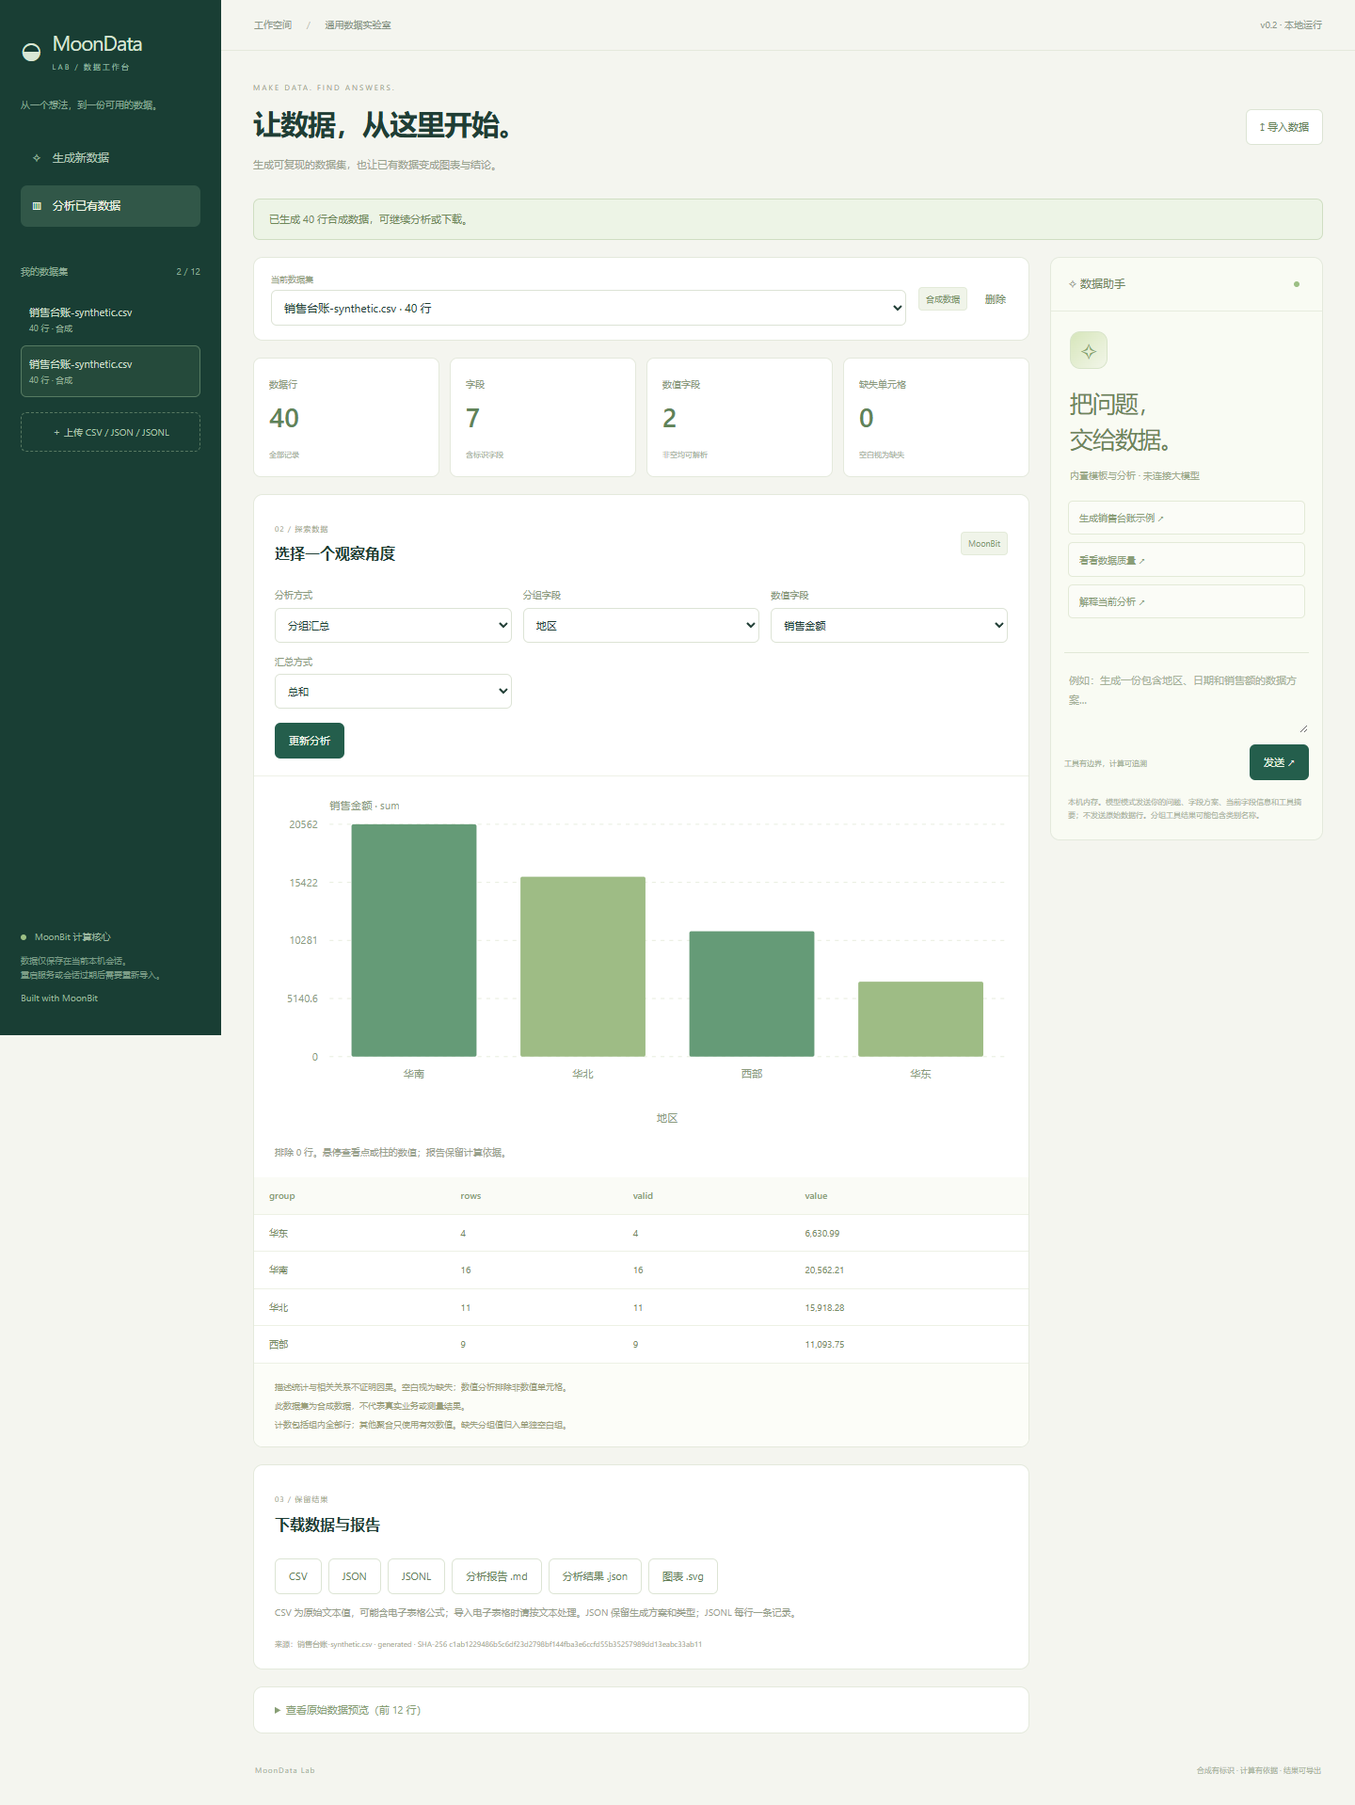
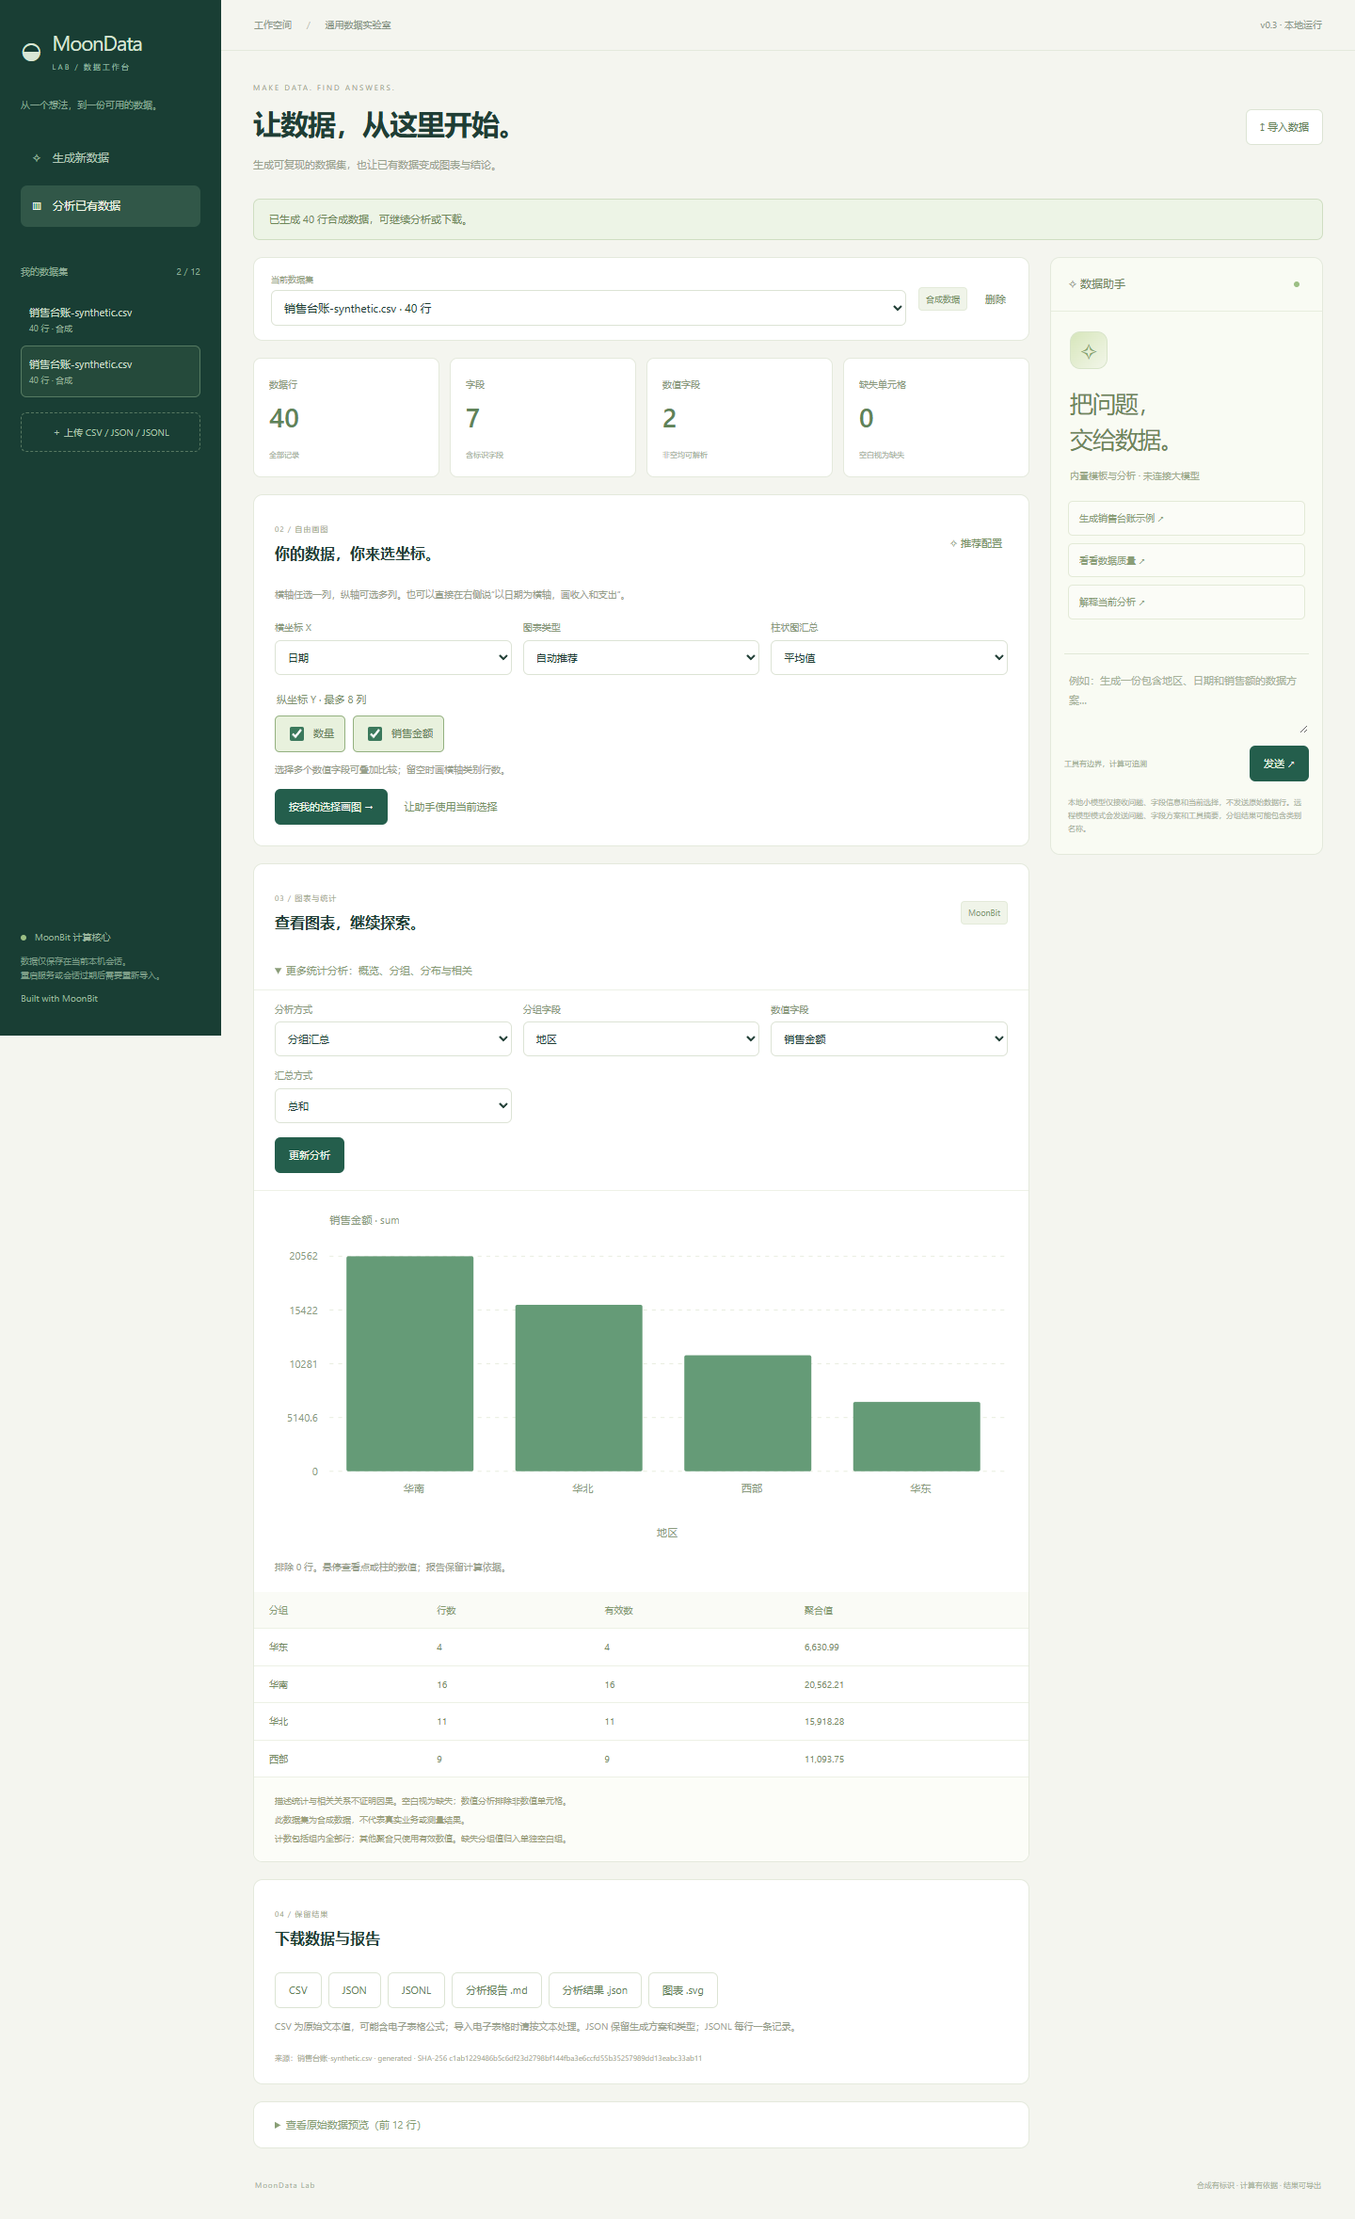
docs: record real local inference acceptance and v0.3 usage

diff --git a/docs/LOCAL_MODEL.md b/docs/LOCAL_MODEL.md
@@ -1,0 +1,56 @@
+# 本地小模型与自由画图
+
+## 使用
+
+在当前工作区执行 `./moondata-lab/start.ps1`。如果已经准备好本地模型，该入口同时启动模型与工作台。访问 http://127.0.0.1:4321 。停止启动终端会清理本次创建的模型进程。
+
+其他电脑从源码开始：Windows x64、Node与MoonBit准备好后，在项目目录运行：
+
+```powershell
+node scripts/setup-local-model.mjs
+node scripts/start-with-model.mjs
+```
+
+权重与运行器只写入忽略的 .local/model，不安装全局程序、不写注册表、不向 Git 提交模型。权重约639MB、运行器压缩包约20MB；启动使用6个CPU线程和8192上下文，无需CUDA依赖。与应用一起运行时会占用额外内存，启动和推理速度取决于机器。
+
+默认应用端口4321，模型4324。可以通过 PORT、LAB_LOCAL_MODEL_PORT改变；只监听127.0.0.1。端口已占用会报错，不终止其他程序。应用只清理自己创建的模型子进程。
+
+只运行 `node server/index.mjs` 仍是无模型模式，除非显式设置模型环境。远程模型仍可按 README 使用；本地启动入口优先加载本地模型。
+
+## 操作顺序
+
+1. 选“其他 / 自定义”生成数据，或上传支持的表格文件。模板不是领域限制。
+2. 在自由画图区选择X、勾选一个或多个Y、选择自动/折线/散点/柱状。点“按我的选择画图”。
+3. 要用对话，可点“让助手使用当前选择”，再说“把我当前选择的几列换成折线图”。也可直接指定“以收入为横轴，支出为纵轴画散点图”。
+4. 模型输出受约束的配置；字段和类型校验后才调用计算工具。画出后配置回填表单，可继续点击修改。
+5. 下载SVG、Markdown或JSON，核对原始来源、排除行数、聚合方式和计算值。
+
+“一键推荐”是按字段类型的确定性操作；本地模型负责自由描述的图表规划。明确的模板、概览和当前分析命令直接走工具，会说明无需模型规划。
+
+## 模型与来源
+
+使用 [Qwen 官方 Qwen3-0.6B-GGUF](https://huggingface.co/Qwen/Qwen3-0.6B-GGUF) 的 Q8_0 权重（Apache-2.0），不是本项目训练的模型。官网下载在本机网络不可达，实际下载自 [Qwen 官方 ModelScope 仓库](https://modelscope.cn/models/Qwen/Qwen3-0.6B-GGUF)，同时核对公开的同文件LFS SHA-256。
+
+- 权重：Qwen3-0.6B-Q8_0.gguf，639446688字节。
+- SHA-256：9465e63a22add5354d9bb4b99e90117043c7124007664907259bd16d043bb031。
+- ModelScope revision：6abe20cd0aed577f4d0b267935868ecae190aee9。
+- 运行器：[llama.cpp b11718 Windows CPU x64](https://github.com/ggml-org/llama.cpp/releases/tag/b11718)，其源码遵循MIT许可。
+- ZIP SHA-256：92cc529b29a43f9a30e21d490cb2e95062acd0b59af6fee8b3b52b28074f838c。
+
+setup脚本固定版本、核对长度和摘要后才激活文件。再次执行会复用已校验的下载。源码交付包不包含第三方权重和二进制；本机下载是独立依赖缓存。
+
+## 能力与边界
+
+小模型只输出受JSON Schema约束的绘图配置：action、X、Y列表、图类型、聚合方式与方案说明。不执行代码，不计算报告数值，不把模型意见当作因果结论。底层生成、聚合、统计和相关计算仍由MoonBit承担。
+
+传给本地模型的是问题、字段名称/类型和当前选择，没有原始数据行或绘图采样点。它不访问远程推理服务；初次下载运行文件需要网络。
+
+一次最多考虑16个候选字段，优先提问中出现的字段与当前选择；宽表可先在界面选中目标字段再提问。界面仍能选择所有列。长字段名、模糊表达和复杂意图可能导致错误或达到上下文限制，明确的手动选择始终可用。
+
+只换图表类型时程序保留用户已有坐标与汇总配置；明确指定不存在的横轴会先拒绝，不悄悄用另一列替代。不能据此保证任何自然语言都被正确理解；请核对回填坐标与报告。
+
+当前模型专注已读入数据的图表规划；生成新数据仍用模板/自定义方案，或可选远程模型的方案工具。不提供任意文件读取、PDF/图像识别、训练、预测、筛选表达式或自动数据清洗。
+
+## 实测
+
+`node scripts/test-local-model.mjs` 执行真实CPU模型推理和真实浏览器对话，不用模拟模型回复。覆盖明确坐标、多纵轴、风格变更、类别求和、数值散点、纯文本计数、缺失字段拦截，以及图表/报告一致。记录在 artifacts/local-model-acceptance.json。此小组合成验收不能代表开放领域语言理解准确率。

diff --git a/docs/ACCEPTANCE.md b/docs/ACCEPTANCE.md
@@ -1,4 +1,4 @@
-# v0.2 通用版验收
+# v0.3 通用版验收
 
 日期：2026-10-18，Windows x64 / Node 24.19.0 / MoonBit 0.10.15 / Playwright 1.62.1 / Microsoft Edge。此记录对应通用数据生成与分析；旧电机记录见 archive/MOTOR_V0_ACCEPTANCE.md。
 
@@ -6,11 +6,12 @@
 | --- | --- | --- |
 | 生成与分析两条流程 | 已实现 | web 默认入口、server/data、generator、explore |
 | 数学与核心 | JS 15/15、WasmGC 15/15 | scripts/check.mjs；独立预期值 |
-| Node 数值/服务/工具 | 56/56 | test/*.test.mjs（含历史回归） |
-| 浏览器端到端 | 18 场景通过 | artifacts/browser-acceptance.json |
-| 通用示例 | 4 领域 | examples/*-synthetic.csv/json，含方案与标识 |
+| Node 数值/服务/工具 | 64/64 | test/*.test.mjs（含历史回归） |
+| 浏览器端到端 | 21 场景通过 | artifacts/browser-acceptance.json |
+| 通用示例 | 4 领域 + 其他/自定义 | examples/*-synthetic.csv/json，含方案与标识 |
 | 模型工具协议 | 模拟服务通过 | 方案提出→用户生成→模型调用相关工具；取消中止上游 |
-| 外部模型效果 | 未实测 | 当前没有调用真实模型服务，不据此承诺提供商兼容性 |
+| 远程模型提供商 | 未实测 | 当前没有调用真实远程模型，不据此承诺提供商兼容性 |
+| 本地小模型实际推理 | 8项流程检查通过 | artifacts/local-model-acceptance.json；真实Qwen CPU推理与浏览器，含字段校验检查 |
 | 截图 | 新生成/分析/390px | artifacts/moondata-generation/analysis/mobile.png |
 | 本地 Git | 分阶段提交 | codex/initial-workbench |
 | GitHub 推送 | 待登录，未完成 | gh 未登录；连接器目标查询不可访问；发布脚本已准备 |
@@ -33,7 +34,11 @@
 
 桌面视口1440×1100、移动390×844。没有以本机检查代替 Linux/macOS 或 Firefox/Safari 验证。CI 使用 Chromium，远端结果需推送后确认。
 
-## 本机性能检查
+v0.3新增显式自定义入口、X与多Y选择、实际数值/日期间隔、多曲线、点击切换图型与报告失效、一键字段推荐。真实本地模型单独执行：中文双纵轴折线、保留选择换图型、类别金额求和、散点、纯文本计数、缺失字段校验及两条实际浏览器对话路径。
+
+模型测试使用固定小组合成数据；没有据此报告开放域准确率。图表规划可失败或误解，用户应核对回填的字段与聚合方式。明确字段不存在时不绘制替代列。
+
+## v0.2 历史本机性能检查
 
 `node scripts/benchmark.mjs` 对10万行合成类别/数值表导入与相关分析，确认10万对参与统计、图只显示1500点；再生成1万行四字段实验模板。一次耗时记录在忽略的 artifacts/benchmark.json。不是峰值内存、多用户负载或跨平台性能保证。
 
@@ -43,4 +48,4 @@
 
 GitHub 身份登录后执行 `node scripts/publish-github.mjs`。默认私有 FidollarinLA/moondata-lab，推送 codex 分支并比对 SHA。成功后核对远端 CI，再更新此记录。没有收到登录条件前，不把本地提交报告为已上传。
 
-真实模型服务验证与用户真实数据反馈属于后续验收；当前合成示例不能证明行业业务有效性或隐私合成能力。
+远程模型服务验证与用户真实数据反馈属于后续验收；本地Qwen已单独实测。当前合成示例不能证明行业业务有效性或隐私合成能力。

diff --git a/README.md b/README.md
@@ -4,6 +4,18 @@
 
 本机运行的中文通用数据工作台。销售台账、库存、问卷、运营、传感器和实验记录都可以使用，不要求电机参数、时间列或行业专属格式。
 
+## v0.3：自定义与对话画图
+
+- 新增“其他 / 自定义”，模板只是起点，字段可以自由添加和修改。
+- 上传数据后自动识别字段；在“自由画图”选择任意横轴和最多8个数值纵轴，一次画多条曲线、散点或分组柱状图。
+- 自动推荐依据字段类型执行；本地小模型依据问题和当前选择生成绘图配置，两者在界面和记录中区分。
+- 已在本机实际运行 Qwen3-0.6B-Q8_0；中文对话可指定坐标、聚合，或说“把我当前选择的几列换成折线图”。计算仍由 MoonBit 完成，模型不生成可执行代码。
+- 新绘图区支持实际数值 / UTC 日期横轴间隔；类别保留行顺序。更多统计分析可展开查看。
+
+当前工作目录已经准备好本地权重。在工作区运行 `./moondata-lab/start.ps1`，会自动加载模型与应用。首次从源码包使用需先执行 `node scripts/setup-local-model.mjs`（Windows x64，下载约639MB权重和20MB便携运行器并核对SHA-256）。然后运行 `node scripts/start-with-model.mjs`。
+
+完整说明、模型来源与限制见 [本地小模型](docs/LOCAL_MODEL.md)。这是接入预训练模型的图表规划器，没有重新训练模型；它可能理解错误，坐标选择和报告是核对依据。支持的表格格式仍为 CSV / JSON / JSONL。
+
 ![数据生成界面](artifacts/moondata-generation.png)
 
 ## 当前可以做什么
@@ -73,7 +85,7 @@ node server/index.mjs
 
 模型只收到问题、有限对话、字段方案、当前字段信息和精简工具结果。**不发送原始数据行或绘图采样点**；分组结果会包含类别名称。没有任意代码、命令、网络搜索或文件工具。单次最多 6 轮、10 次调用、120 秒，单轮 45 秒。可点击“停止”。
 
-目前通过了模拟模型服务的协议与浏览器验证；**尚未实测外部模型服务**，模型解释仍需核对。
+远程模型接口通过模拟服务验证，尚未实测外部提供商；本地 Qwen 小模型已有真实推理和浏览器验收，见 artifacts/local-model-acceptance.json。模型解释仍需核对。
 
 ## 限制
 

diff --git a/docs/ARCHITECTURE.md b/docs/ARCHITECTURE.md
@@ -1,4 +1,12 @@
-# 架构与接口 v0.2
+# 架构与接口 v0.3
+
+新增自由画图：Query mode=plot，`{datasetId,x,yColumns:[...],kind:auto/line/scatter/bar,reducer:mean/sum/min/max}`。最多8个Y，返回多个series、每列统计与缺失数、实际X轴类型。UI点击和模型都走同一受限计算链，默认推荐只依据字段类型。
+
+新增本地模型：setup脚本下载固定版本权重与运行器到忽略目录并校验摘要；start-with-model先构建，再启动只监听loopback的llama.cpp子进程，健康检查通过后启动应用。启动终端关闭时清理所创建的模型进程。
+
+LAB_LOCAL_MODEL_URL仅允许本机HTTP并选择local-planner模式；此模式以字段元数据、当前选择和问题构造JSON Schema请求，不发送原始行。模型只生成图表配置，由server/plot校验并调用MoonBit统计/聚合。风格变更保留用户参数。明确模板和概览操作直接使用工具，不伪称模型推理。
+
+本地模型一次只接收优先挑选的16个候选字段，所有列仍可手动选择。模型没有文件、代码、shell或任意网络工具。当前是现成预训练模型的本地应用集成，不是MoonBit训练或实现了LLM推理引擎。
 
 生成：字段方案 → Node 参数验证 → MoonBit generator → 类型化记录 / 合成标识 → 会话数据 → 三种下载。
 
@@ -41,6 +49,8 @@ Query：datasetId 与 mode；group 模式附 group、reducer、可选 value；di
 ## 模型边界
 
 工具名单：profile_dataset、explore_dataset、propose_generation。分析绑定到当前选中 ID，模型自填其他 ID 不能切换数据。仅方案生成工具无需已有数据。工具参数错误反馈模型，不运行任意代码。
+
+远程工具名单另新增plot_dataset，传X和Y列表即可多曲线绘图；精简结果剔除series绘图点与结果点表，避免新增模式绕过原始行策略。
 
 模型可见字段结构、摘要和有限分组结果，不可见原始预览、散点/折线采样行、任意导入 provenance 或原始文件。类别名称可能出现在分组结果。问题与历史本身由用户输入，可能包含用户主动给出的数据。
 

diff --git a/docs/PLAN.md b/docs/PLAN.md
@@ -6,7 +6,7 @@
 
 面向多领域表格数据的 AI 工作台。销售台账、库存、问卷、运营数据、传感器和实验记录都是示例领域，不作为硬编码业务模型。
 
-用户已明确选择**两者都做**：“生成新数据集”与“上传已有数据后生成分析、图表和报告”均为本版交付范围。当前版本 v0.2，旧阶跃工具仅作历史回归模块。
+用户已明确选择**两者都做**：“生成新数据集”与“上传已有数据后生成分析、图表和报告”均为交付范围。当前版本 v0.3，新增其他/自定义、自由坐标多曲线，以及实际本地小模型绘图；旧阶跃工具仅作历史回归模块。
 
 ## 当前已完成的共同基础
 
@@ -38,6 +38,16 @@
 4. **D 已完成**：图表、表格、来源指纹与报告；参数改动禁用旧下载；模型工具循环可提出方案，用户检查后执行；离线不冒充自然语言模型。
 5. **E 已完成本机检查**：JS / WasmGC 数学核对、服务协议、18 个浏览器场景，覆盖 390px、类型、格式、恶意文本、取消和模型工具链。外部模型实测未做，详见 ACCEPTANCE。
 6. **F 待登录**：已准备发布脚本、CI、分阶段提交和交付包；本机 gh 尚未登录，连接器查询目标仓库返回不可访问。登录后执行发布脚本，核对远端 SHA，再检查 Actions；不强推。
+
+## v0.3 本轮增量
+
+- [x] 其他/自定义作为显式入口，保留字段编辑自由度。
+- [x] 自由画图：所有横轴字段、最多8个数值纵轴、三种图型、自动推荐与字段回填。
+- [x] 实际数值/日期间隔、独立缺失处理、多序列图例与可导出依据。
+- [x] Qwen0.6B预训练权重和便携CPU运行器下载、摘要校验、本机启动与清理。
+- [x] 中文问题和当前选择生成受约束绘图配置；换图型保留用户坐标，未知显式横轴拒绝。
+- [x] 本地真实推理与浏览器验收，不再仅有模拟服务。
+- [ ] GitHub登录与远端推送仍待外部登录条件，不以本地完成冒充发布。
 
 ## 下一版本候选（不作为已完成能力）
 

diff --git a/THIRD_PARTY.md b/THIRD_PARTY.md
@@ -18,6 +18,8 @@
 
 ## 运行与开发依赖
 
+v0.3可选本地依赖：Qwen官方Qwen3-0.6B-GGUF Q8_0预训练模型（Apache-2.0）与llama.cpp b11718（MIT）Windows CPU便携发行版。setup只下载到忽略的.local目录，固定来源/摘要见docs/LOCAL_MODEL.md；源码包不捆绑权重或运行器。这是应用集成，不能宣称模型由本项目训练或推理引擎由MoonBit实现。
+
 - MoonBit 工具链和标准库用于编译运行，按其自身许可证分发；本仓库不捆绑工具链。
 - Node.js 运行时按其自身许可证分发；本仓库不捆绑 Node.js。
 - Playwright 1.62.1（Apache-2.0）仅用于开发验收，锁定版本与完整性见 pnpm-lock.yaml。其浏览器发行版遵循各自许可证。

diff --git a/CHANGELOG.md b/CHANGELOG.md
@@ -1,5 +1,13 @@
 # Changelog
 
+## 0.3.0
+
+- Added explicit other/custom template and free X/multiple-Y chart builder.
+- Added actual numeric/date axis spacing, per-series missing-pair handling and grouped bars.
+- Integrated checksum-verified local Qwen 0.6B CPU chart planning, owned process lifecycle and structured output validation.
+- Added real local inference/browser acceptance alongside existing provider protocol stubs.
+- Preserved axes and aggregation for style-only edits; rejected missing explicitly requested X fields.
+
 ## 0.2.0
 
 - General-purpose synthetic data generation and uploaded-data analysis, confirmed as two product flows.
